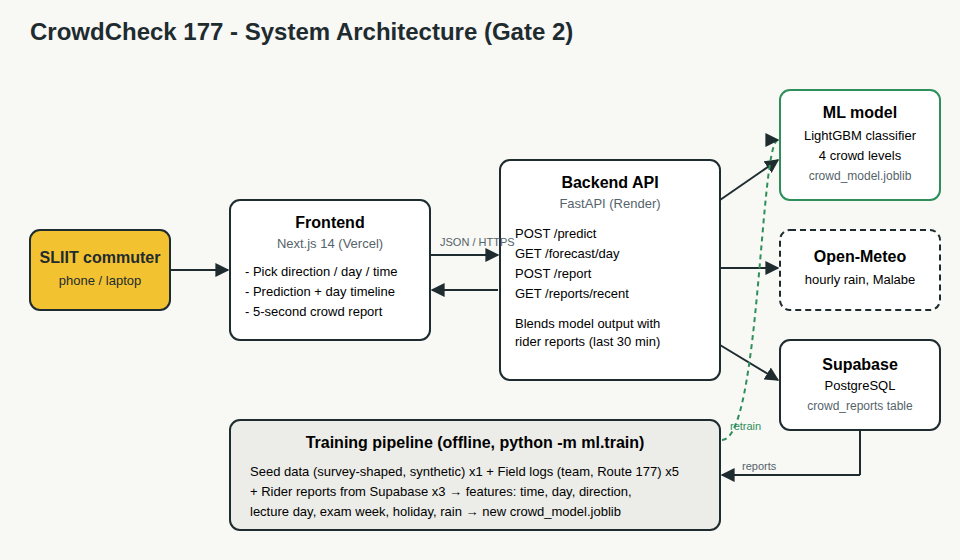
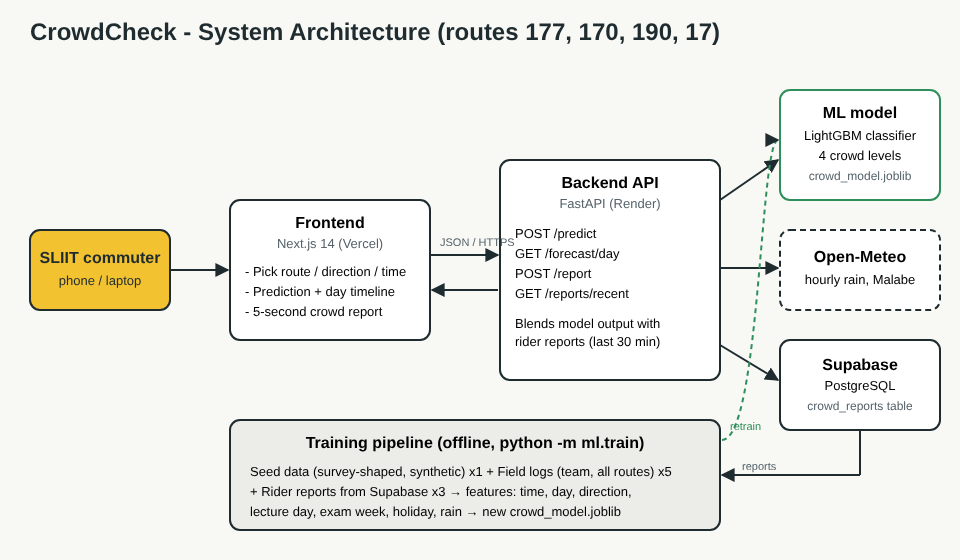
Update README, diagram and change log

diff --git a/README.md b/README.md
@@ -1,6 +1,30 @@
-# CrowdCheck 177 - AI Bus Crowd Prediction
+# CrowdCheck - AI Bus Crowd Prediction
 
-Predicts how crowded a Route 177 (Kollupitiya - Kaduwela) bus will be before a SLIIT Malabe student leaves, and lets riders submit a 5-second crowd report after their trip.
+Predicts how crowded a bus on the SLIIT Malabe corridor will be before a student leaves, and lets riders submit a 5-second crowd report after their trip.
+
+## Routes covered
+| Route | Ends | `direction` values |
+|---|---|---|
+| 177 | Kollupitiya - Kaduwela | `to_kaduwela`, `to_kollupitiya` |
+| 170 | Athurugiriya - Pettah | `to_athurugiriya`, `to_pettah` |
+| 190 | Meegoda - Pettah | `to_meegoda`, `to_pettah` |
+| 17 | Panadura - Kandy | `to_kandy`, `to_panadura` |
+
+Pick the route with the buttons at the top of the app. The old 177 names `to_sliit` / `from_sliit` still work in the API and are mapped to `to_kaduwela` / `to_kollupitiya`.
+
+### Crowd pattern
+Morning rush goes **into Colombo**, evening rush goes **out of Colombo**: 177 is packed towards Kollupitiya in the morning and towards Kaduwela in the evening; 170/190 towards Pettah in the morning; 17 towards Panadura (Colombo suburbs) in the morning and towards Kandy in the evening. Each route's Colombo-bound direction is set by `to_colombo` in `backend/ml/features.py`.
+
+### Holidays (Poya + public)
+- Dates come from Google's **Holidays in Sri Lanka** calendar using `GOOGLE_API_KEY` (Calendar API key, no billing needed), saved to `backend/data/holidays_lk.json`.
+- The repo ships that file pre-filled with the official 2026 list, so everything works without a key.
+- The API refreshes it from Google on startup and once a day. Refresh by hand: `python -m ml.holidays` (list it: `python -m ml.holidays --list`).
+- Model features: `is_public_holiday`, `is_poya`, `is_long_weekend`, `is_day_before_holiday`, `is_day_after_holiday`.
+- Effects in the seed data: city routes much quieter on holidays; 17 busier on Poya and long weekends (towards Kandy); heavier evening rush out of Colombo the day before a holiday; heavier morning rush into Colombo the day after.
+- `/predict` returns a `day` object with the holiday name and a short note; `GET /holidays?days=60` lists upcoming holidays.
+- SLIIT exam weeks are not in Google's calendar. Edit `EXAM_WEEKS` in `backend/ml/features.py`.
+
+To add a route: add it to `ROUTES` in `backend/ml/features.py`, add a crowd profile in `backend/ml/generate_seed_data.py`, add it to `frontend/lib/routes.ts`, then regenerate seed data and retrain.
 
 ![Architecture](docs/architecture.png)
 
@@ -43,7 +67,7 @@ Open http://localhost:8000/docs to try the API. Without `DATABASE_URL` it uses a
 ### 2. Frontend
 ```bash
 cd frontend
-cp .env.example .env.local      # NEXT_PUBLIC_API_URL=http://localhost:8000
+cp .env.example .env.local    # NEXT_PUBLIC_API_URL=http://localhost:8000
 npm install
 npm run dev
 ```
@@ -53,13 +77,14 @@ Open http://localhost:3000
 | Method | Path | What it does |
 |---|---|---|
 | POST | `/predict` | `{direction, time, date?}` returns crowd level, confidence, tip, better nearby bus |
-| GET | `/forecast/day?direction=to_sliit&date=YYYY-MM-DD` | Predicted level for every 10-min departure |
+| GET | `/forecast/day?route=17&direction=to_kandy&date=YYYY-MM-DD` | Predicted level for every 10-min departure |
 | POST | `/report` | `{direction, crowd_level 0-3, stop_name?}` saves a rider report |
 | GET | `/reports/recent` | Reports from the last few hours |
+| GET | `/holidays?days=60` | Upcoming Poya and public holidays the model uses |
 | GET | `/model-info` | Training metrics + number of reports collected |
 | GET | `/health` | Health check |
 
-`direction` is `to_sliit` (towards Kaduwela) or `from_sliit` (towards Kollupitiya).
+Every endpoint takes `route` (`177`, `170`, `190`, `17`; default `177`). Valid `direction` values per route are in the table at the top.
 
 ## Deploy
 
@@ -69,9 +94,9 @@ Open http://localhost:3000
 
 ### Backend on Render
 1. New > Blueprint > select this repo (uses `render.yaml`), or New > Web Service with root dir `backend`.
-2. Build: `pip install -r requirements.txt && python -m ml.generate_seed_data && python -m ml.train`
+2. Build: `pip install -r requirements.txt && python -m ml.holidays && python -m ml.generate_seed_data && python -m ml.train`
 3. Start: `uvicorn app.main:app --host 0.0.0.0 --port $PORT`
-4. Env vars: `DATABASE_URL` (Supabase URI), `FRONTEND_ORIGIN` (your Vercel URL).
+4. Env vars: `DATABASE_URL` (Supabase URI), `FRONTEND_ORIGIN` (your Vercel URL), `GOOGLE_API_KEY` (holidays).
 
 Free Render instances sleep after inactivity. Open the API URL once before recording the demo so it's awake.
 
@@ -88,7 +113,7 @@ Free Render instances sleep after inactivity. Open the API URL once before recor
 Training weights: synthetic seed x1, rider reports x3, field logs x5.
 
 ## Honest note on data
-There is no public ridership data for Route 177, so the first model is trained on **synthetic seed data shaped by our survey** (50 SLIIT commuters, 20-23 Sept 2026). The hold-out accuracy in `models/metrics.json` measures fit to that seed pattern, not real-world accuracy. Real field logs and rider reports replace the seed data over time.
+There is no public ridership data for these routes, so the model is trained on **synthetic seed data shaped by our survey** (50 SLIIT commuters, 20-23 Sept 2026). The hold-out accuracy in `models/metrics.json` measures fit to that seed pattern, not real-world accuracy. Routes 170 and 190 had only 4 survey ratings each, so their seed shape is a rough estimate. Real field logs and rider reports replace the seed data over time.
 
 ## Team
 Siriwardhana P.K.S.M (IT25101412), Prabaswara T.H.U. (IT25101712), Nethwin S.W.S (IT25102242), Priyabashitha G.J.S (IT25101700)

diff --git a/CHANGES.md b/CHANGES.md
@@ -1,0 +1,32 @@
+# v0.4 - Holidays + Colombo rush pattern (on top of v0.3 multi-route)
+
+## What changed in v0.4
+- **Colombo rush pattern.** Morning rush now goes into Colombo and evening rush out of Colombo on every route (177: towards Kollupitiya in the morning, towards Kaduwela in the evening; 170/190: towards Pettah in the morning; 17: towards Panadura in the morning, towards Kandy in the evening). SLIIT students still add a smaller morning bump in the other direction.
+- **Holidays.** New `backend/ml/holidays.py` reads Sri Lankan Poya and public holidays from Google Calendar (`GOOGLE_API_KEY`), saved in `backend/data/holidays_lk.json`. The file ships with the official 2026 list so it works without a key. The API refreshes it on startup and daily.
+- New model features: to_colombo, is_poya, is_long_weekend, is_day_before_holiday, is_day_after_holiday. Seed data now covers March-September 2026 (New Year, Vesak, Poson, Esala, Nikini, Binara). Model retrained.
+- Fixed a wrong placeholder date: Binara Poya 2026 is 26 Sep, not 25 Sep.
+- API: `/predict` returns a `day` object with a holiday note; new `GET /holidays`.
+- App: holiday note on the prediction and "Next holiday" link under the date picker.
+- Render build now runs `python -m ml.holidays` first; add `GOOGLE_API_KEY` in Render's environment.
+
+## v0.3 - Multi-route (177, 170, 190, 17)
+- Route buttons at the top; directions named by destination; seed data and model for all four routes; database auto-upgrade; mobile layout fix.
+
+## Files changed (v0.3 + v0.4), by owner
+Sanithu (model and data)
+- backend/ml/features.py, backend/ml/generate_seed_data.py
+- backend/ml/holidays.py (new), backend/data/holidays_lk.json (new)
+- backend/data/seed_trips.csv, backend/data/FIELD_LOG_GUIDE.md
+- backend/models/crowd_model.joblib, backend/models/metrics.json
+
+Ushan (backend API)
+- backend/app/main.py, backend/app/db.py
+- backend/.gitignore, backend/.env.example, render.yaml
+
+Janidu (frontend)
+- frontend/lib/routes.ts (new), frontend/lib/api.ts, frontend/components/ReportPanel.tsx
+- frontend/app/page.tsx, frontend/app/layout.tsx, frontend/app/globals.css, frontend/package.json
+
+Senuth (database and docs)
+- supabase/schema.sql, supabase/migration_002_multi_route.sql (new)
+- README.md, .gitignore, CHANGES.md, docs/architecture.svg, docs/architecture.png
